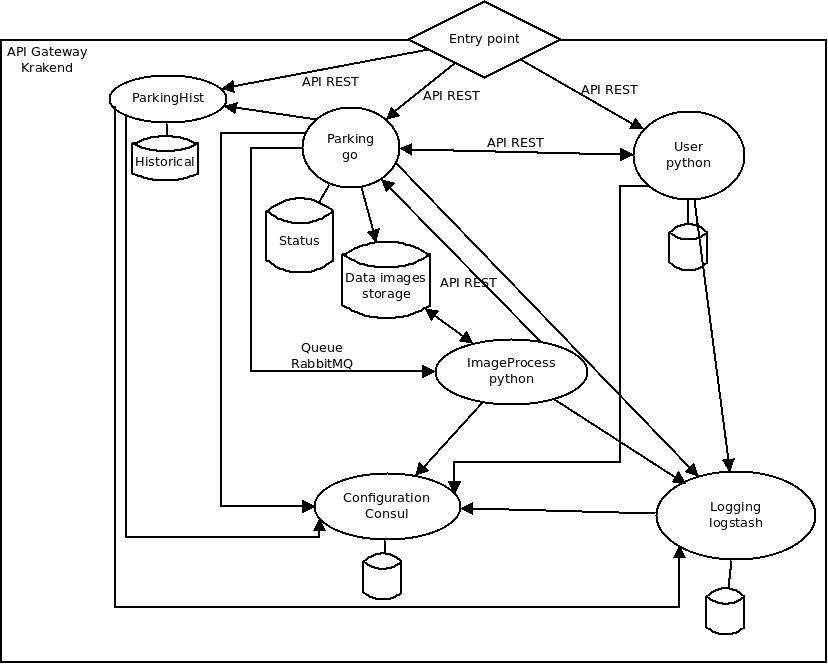
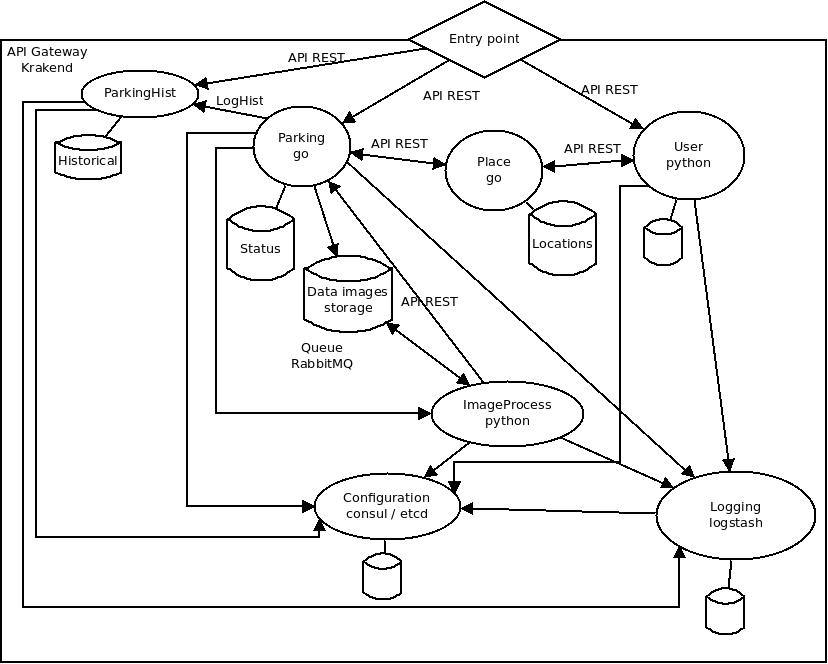
Documentation

diff --git a/README.md b/README.md
@@ -1,76 +1,62 @@
 [![Build Status](https://travis-ci.org/kcobos/CC-SIGA.svg?branch=master)](https://travis-ci.org/kcobos/CC-SIGA)
+[![CircleCI](https://circleci.com/gh/kcobos/CC-SIGA.svg?style=svg)](https://circleci.com/gh/kcobos/CC-SIGA)
 [![codecov](https://codecov.io/gh/kcobos/CC-SIGA/branch/master/graph/badge.svg)](https://codecov.io/gh/kcobos/CC-SIGA)
 [![GPL Licence](https://badges.frapsoft.com/os/gpl/gpl.png?v=103)](https://opensource.org/licenses/GPL-3.0/)
 
 # CC-SIGA
-This is a repository to design SIGA infrastructure on server side considering all parts involved in SIGA (sensors, APPS, storing, large tasks...).
+SIGA (Sistema Integral de Gestión de Aparcamientos (Integral Parking Management System)) is a system designed for reserved parkings in public area like authorities, ambulances or, its main aim, disabled parkings. It tries to "centralize" any kind of information about these parkings (location, parking type, occupation status (free, occupied, bad occupied...)) and show it as easy as possible to users.
 
-SIGA (Sistema Integral de Gestión de Aparcamientos (Integral Parking Management System)) is designed for reserved parkings in public area like authorities, ambulances or, its main aim, disabled parkings. It is based on the parking lot state data is received on the system automatically when the state changes by sensors disposed on parking lot.
+The information about occupation status about parking is provided by sensors disposed in parkings attached to this project. By this way, the system has actual states of all parkings.
 
-On the other hand, users of this type of parking have an mobile application to view and navigate to free parkings. Moreover, users can rate parking lots have been used and report if a parking lot is used without accreditation or if there is any kind of problem in any parking lot. Also, there is an application to manage parking lots, users and authorizations used by public administration and police who is informed if a parking lot is been used without authorization.
 
-## Infrastructure overview
-The infrastructure on the server side it is composed by several services to be ready to scale the system and include more functionalities if it's needed in a future. Besides, separating functionalities we get improve the security of the system.
+* [Infrastructure overview](./docs/index.md#infrastructure-overview)
+* [Specifying the infrastructure](./docs/index.md#specifying-the-infrastructure)
 
-The first approximation of the infrastructure consists of multiple services as we describe below:
- * API Gateway: as a cloud system, an API Gateway is needed to be able to change the cloud without changing applications which connect to this cloud.
- * Parking: manage all parking lots and them states. This service is called by users and sensors so it has to be as quick as possible responding all requests. When a parking is occupied this API receives the ID of the parking lot and the ID of the user, if any, and check if the user ID exists. To do that it is needed a relation between this microservice an user microservice. In addition, any change of parking lot status must be recorded in other database (ParkingHist). 
- * ParkingHist: it is the parking historical states. Every change of parking lot status must be recorded to be able to know parking lot occupancy or incidences for reporting or improve the system.
- * User: manage users and permissions. These users could be administrators or clients. Every connection to this cloud have to be authenticated. 
- * ImageProcess: if sensors get a parking lot occupied without an accreditation (user ID), they take a picture of the vehicle and this picture is been had to process to get information like a car identification. This process could be take a lot of time so data come through a queue and after the process ends, the system has to upgrade the parking status and the parking historical.
- * Configuration: this cloud system needs a configuration service to be able to make changes as quick as possible.
- * Logging: to improve all system and check possible problems of the system a logging system is needed. This service is connected to all services, as configuration, to store and process all logs.
 
-All services have to be in a same entry point. To do that, the system needs an API gateway which handles the outside requests without have to change URLs. Depend on demand and users or sensors number, we could divide this API gateway to two APIs, one for users and the other for sensors.
+## Test
+This project has been tested to ensure a function of it self. In this case, this project has ben tested completely in [Travis CI](https://travis-ci.org/kcobos/CC-SIGA) and only a test in [Circle CI](https://circleci.com/gh/kcobos/CC-SIGA) due to its free plans.
 
-To sum that, this first approximation could be like:
+Starting with [Circle CI](https://circleci.com/gh/kcobos/CC-SIGA), free plan has only 1 job so only we can test one language and one version of that. We have chosen GoLang language to test due to Circle CI doesn't have the last version of Python language (3.8). This test doesn't upload data to code coverage ([CodeCov](https://codecov.io/gh/kcobos/CC-SIGA)) so, the configuration is very simple:
 
-![Overview scheme](./docs/CC_overview.jpeg)
+``` yml
+version: 2
+jobs:
+  build:
+    docker: 
+      - image: circleci/golang:1.13
+    steps: 
+      - checkout 
+      - run: make goTest
+```
 
-## Specifying the infrastructure
-It is time to specify in more detail the different parts of the project. This specification deals with the choice of programming languages to be used in the different microservices, the type and engine of the databases to be used as well as the API Gateway to be used, the logging and configuration systems and the queue to be used.
+Due to this project is a open source project, in [Travis CI](https://travis-ci.org/kcobos/CC-SIGA) we don't have job restrictions and we can test all languages and versions. By default, [Travis](https://docs.travis-ci.com/user/build-matrix/) uses a matrix system to build jobs to test the code. Here, we have two languages for the time being so we couldn't use build matrix system without excluding and comparing each combination because configuration complexity.
 
-### API Gateway
-The API Gateway we could choose is NGINX API Gateway. NGINX is a powerful load balancer, web server and reverse proxy but, also, it has a specific solution aimed at microservices‑based applications and it has a lot of [documentation](https://www.nginx.com/blog/deploying-nginx-plus-as-an-api-gateway-part-1/) . However, this solution is not free neither open source.
+We decided to create job per job, [building stages manually](https://docs.travis-ci.com/user/build-stages/) to test all languages (Go an Python) and to test all versions we need. The configuration is:
 
-Looking for a free and open source solution [Krakend](https://www.krakend.io/) could be the best option for an API Gateway and also it has a lot of [documentation](https://www.krakend.io/docs/overview/introduction/).
+``` yml
+jobs:
+  include:
+    - stage: test
+      name: "Go 1.13 tests"
+      language: go
+      go:
+        - "1.13"
+      script:
+        - make goTest
+      after_success:
+        - make goCoverage
+        - bash <(curl -s https://codecov.io/bash) -cF go
+```
+create one stage per language and version. After test success, test coverage will upload to [CodeCov](https://codecov.io/gh/kcobos/CC-SIGA) explaining the language.
 
-### Configuration system
-A fundamental part of a microservices‑based application is configure all distributed microservices as easy as possible. Here we could face to a several configuration and service discovery tools. Due to this is a open project, we want all tools which compose the project open as well.
+In GoLang we have chosen almost all version, from 1.3 to 1.13 or lasted released, and in Python we have chosen only Python3, from 3.4 to 3.8-dev, because Python2 will retire on 2020 (in one day!!).
 
-To facilitate the decision of which configuration tool is the best for this project, is better to see a [comparative](https://stackshare.io/service-discovery) where [Consul](https://www.consul.io/) could be one of the best free and open source tool. Also it has a lot of [documentation](https://www.consul.io/docs/index.html) to read. Another could be [etcd](https://etcd.io/) installed by default in cloud OS.
 
-### Logging system
-Another fundamental part of a microservices‑based application is to log all microservices errors or information in only one site. This site could be centralized or distributed but developers wont have to see logs microservice per microservice.
+## Building tools
+To start, we have chosen a common build tool between the both languages (GoLang and Python) because we don't have any dependencies right now and only run tests and coverage. [Make](https://www.gnu.org/software/make/) is the chosen because is a free and open source tool installed in all distributions.
 
-As the before decision, here we could see a [comparative](https://stackshare.io/log-management) where [Logstash](https://www.elastic.co/products/logstash) could be one of the best tools to centralize all logs. Moreover, we a lot of [information](https://www.elastic.co/guide/en/logstash/current/index.html) about this tool.
+We want to separate every microservice and each one must to have each build tool. GoLang doesn't need an external tool but [Tusk](https://github.com/rliebz/tusk) could ease the job. Python need an external tool and it could be [DoIt](https://pydoit.org/) because it's also free and open source.
 
-### Microservices
-#### Parking
-This is a microservice which knows where are all parking lots and it states (free, busy or bad occupied). It has to response very quick to clients which can be users, administrators or sensor. For this reason and the concurrency of it functionality [Go Lang](https://golang.org/) could be one of the best option.
+In [Make](Makefile) we have created two rules for each microservice: one for testing and other for coverage except in `Users` that we have other to install dependencies but there isn't now. 
 
-On the database side, all data are going to be structured and it has to be a parking location. Due to that there are going to be geographic objects and, probably, there will be operation with these objects. For this reason, we think, [PostgreSQL](https://www.postgresql.org/) with his [PostGIS](https://postgis.net/) plugin could be the best free option.
-
-#### ParkingHist
-ParkingHist is like a log system which only saves parking lot state related data. Here we only save data when a parking lot state has changed. Maybe to do that we could chose a logging tool or made it from scratch but the solution has to be as quick as possible.
-
-About it database, all data is going to be structured so a relational DB will be the best option.
-
-#### User
-This microservice will process and store all user data like personal data or favorites, used parking lots. So this has to be a very secured and fast microservice so [Python](https://www.python.org/) and a API Rest in [Django](https://www.djangoproject.com/) could be the best option.
-
-About it database, Django [officially supports](https://docs.djangoproject.com/en/3.0/ref/databases/) PostgreSQL, MariaDB, MySQL, Oracle and SQLite. Oracle is ruled out because it is not free and SQLite too because is not for a cloud, it is for small applications or clients.
-
-About PostgreSQL, MariaDB or MySQL, MariaDB is a community-developed, commercially supported fork of the MySQL so between the other two, [in this comparative](https://db-engines.com/en/system/MariaDB%3bPostgreSQL), [MariaDB](https://mariadb.org/) could be better to do that than PostgreSQL.
-
-#### ImageProcess
-ImageProcess is a batch microservice to process images to find a vehicle identification, if any, in the picture taken when a parking lot is bad occupied. This is only called when sensors don't get any identification or get an identification which not in users and then they take a picture of the parking lot.
-
-This picture is sent to *Parking* microservice, it saves the picture in a data storage and send the picture name and a ID to a queue. ImageProcess receive these requests, process the image and reply if an identification has been found. This reply is direct and via API to *Parking* microservice.
-
-Python could be the best option to process the image due to it all [image processing libraries](https://www.datasciencecentral.com/profiles/blogs/9-python-libraries-which-can-help-you-in-image-processing). 
-
-##### Queue
-This queue is to send from *Parking* to *ImageProcess* microservices which image has going to be processed. So this queue has to be accesible from Go Lang and Python.
-
-[In this ranking](https://stackshare.io/message-queue) of message queue tools [RabittMQ](https://www.rabbitmq.com/) is good placed and it could be accessed from Go Lang and Python through [amqp](https://github.com/streadway/amqp) and [pika](https://github.com/pika/pika).
+To test all microservices of a language, there is another rule to make it easier. The same for coverage.

diff --git a/docs/index.md b/docs/index.md
@@ -1,13 +1,70 @@
-<!-- # CC-SIGA
-## Infrastructure and deployment for SIGA
+# SIGA Cloud
+SIGA (Sistema Integral de Gestión de Aparcamientos (Integral Parking Management System)) is a system designed for reserved parkings in public area like authorities, ambulances or, its main aim, disabled parkings. It tries to "centralize" any kind of information about these parkings (location, parking type, occupation status (free, occupied, bad occupied...)) and show it as easy as possible to users.
 
-This is a repository to design SIGA infrastructure on server side considering all parts involved in SIGA (sensors, APPS, storing, large tasks...).
+The information about occupation status about parking is provided by sensors disposed in parkings attached to this project. By this way, the system has actual states of all parkings.
 
-## Overview
-In a global form, we have to divide all functionalities to be able to get a distributed and scalable system. The new functionalities which could be needed in this system will be easier to include in the project or even it is possible to make them standalone by this way of designing systems in microservices.
 
-To begin with, the system will consist of a part that will serve as an interface for communication with the sensors. In this communication the server can receive images for its vehicle identification treatment. Because this treatment could take more time, a queue will be used to prevent the interface will stop listening to clients requests (sensors).
+## Infrastructure overview
+The infrastructure on the server side it is composed by several services to be ready to scale the system and include more functionalities if it's needed in a future. Besides, separating functionalities we get improve the security of the system.
 
-Continuing for client requests on the server side, the system needs two more interfaces, one for system administration and the other for final user. The first has to be more securized for obvious reasons and the second has to respond very quickly to final users requests.
+The first approximation of the infrastructure consists of multiple services as we describe below:
+ * API Gateway: as a cloud system, an API Gateway is needed to be able to change the cloud without changing applications which connect to this cloud.
+ * Parking: manage all parking lots and them states. This service is called by sensors so it has to be as quick as possible responding all requests. When a parking is occupied this API receives the ID of the parking lot and the UID of the user, if any, and check if the user UID exists. To do that it is needed a relation between this microservice an user microservice. In addition, any change of parking lot status must be recorded in other database (ParkingHist). 
+ * ParkingHist: it is the parking historical states. Every change of parking lot status must be recorded to be able to know parking lot occupancy or incidences for reporting or improve the system.
+ * Place: group parkings in a location geopositioned. This service is called by users.
+ * User: manage users and permissions. These users could be administrators or clients. Every connection to this cloud have to be authenticated. 
+ * ImageProcess: if sensors get a parking lot occupied without an accreditation (user ID), they take a picture of the vehicle and this picture is been had to process to get information like a car identification. This process could be take a lot of time so data come through a queue and after the process ends, the system has to upgrade the parking status and the parking historical.
+ * Configuration: this cloud system needs a configuration service to be able to make changes as quick as possible.
+ * Logging: to improve all system and check possible problems of the system a logging system is needed. This service is connected to all services, as configuration, to store and process all logs.
 
-The entire system needs a database or several databases to store data. You could divide data storage by layers to have precalculated data to respond faster to users. In addition, it is necessary to store all histories of system states and requests for security reasons and to improve it. -->
+All services have to be in a same entry point. To do that, the system needs an API gateway which handles the outside requests without have to change URLs. Depend on demand and users or sensors number, we could divide this API gateway to two APIs, one for users and the other for sensors.
+
+![Overview scheme](./CC_overview.jpeg)
+
+## Specifying the infrastructure
+It is time to specify in more detail the different parts of the project. This specification deals with the choice of programming languages to be used in the different microservices, the type and engine of the databases to be used as well as the API Gateway to be used, the logging and configuration systems and the queue to be used.
+
+### API Gateway
+The API Gateway we could choose is NGINX API Gateway. NGINX is a powerful load balancer, web server and reverse proxy but, also, it has a specific solution aimed at microservices‑based applications and it has a lot of [documentation](https://www.nginx.com/blog/deploying-nginx-plus-as-an-api-gateway-part-1/) . However, this solution is not free neither open source.
+
+Looking for a free and open source solution [Krakend](https://www.krakend.io/) could be the best option for an API Gateway and also it has a lot of [documentation](https://www.krakend.io/docs/overview/introduction/).
+
+### Configuration system
+A fundamental part of a microservices‑based application is configure all distributed microservices as easy as possible. Here we could face to a several configuration and service discovery tools. Due to this is a open project, we want all tools which compose the project open as well.
+
+To facilitate the decision of which configuration tool is the best for this project, is better to see a [comparative](https://stackshare.io/service-discovery) where [Consul](https://www.consul.io/) could be one of the best free and open source tool. Also it has a lot of [documentation](https://www.consul.io/docs/index.html) to read. Another could be [etcd](https://etcd.io/) installed by default in cloud OS.
+
+### Logging system
+Another fundamental part of a microservices‑based application is to log all microservices errors or information in only one site. This site could be centralized or distributed but developers wont have to see logs microservice per microservice.
+
+As the before decision, here we could see a [comparative](https://stackshare.io/log-management) where [Logstash](https://www.elastic.co/products/logstash) could be one of the best tools to centralize all logs. Moreover, we a lot of [information](https://www.elastic.co/guide/en/logstash/current/index.html) about this tool.
+
+### Microservices
+#### Parking
+This is a microservice which knows where are all parking lots and it states (free, busy or bad occupied). It has to response very quick to clients which can be users, administrators or sensor. For this reason and the concurrency of it functionality [Go Lang](https://golang.org/) could be one of the best option.
+
+On the database side, all data are going to be structured and it has to be a parking location. Due to that there are going to be geographic objects and, probably, there will be operation with these objects. For this reason, we think, [PostgreSQL](https://www.postgresql.org/) with his [PostGIS](https://postgis.net/) plugin could be the best free option.
+
+#### ParkingHist
+ParkingHist is like a log system which only saves parking lot state related data. Here we only save data when a parking lot state has changed. Maybe to do that we could chose a logging tool or made it from scratch but the solution has to be as quick as possible.
+
+About it database, all data is going to be structured so a relational DB will be the best option.
+
+#### User
+This microservice will process and store all user data like personal data or favorites, used parking lots. So this has to be a very secured and fast microservice so [Python](https://www.python.org/) and a API Rest in [Django](https://www.djangoproject.com/) could be the best option.
+
+About it database, Django [officially supports](https://docs.djangoproject.com/en/3.0/ref/databases/) PostgreSQL, MariaDB, MySQL, Oracle and SQLite. Oracle is ruled out because it is not free and SQLite too because is not for a cloud, it is for small applications or clients.
+
+About PostgreSQL, MariaDB or MySQL, MariaDB is a community-developed, commercially supported fork of the MySQL so between the other two, [in this comparative](https://db-engines.com/en/system/MariaDB%3bPostgreSQL), [MariaDB](https://mariadb.org/) could be better to do that than PostgreSQL.
+
+#### ImageProcess
+ImageProcess is a batch microservice to process images to find a vehicle identification, if any, in the picture taken when a parking lot is bad occupied. This is only called when sensors don't get any identification or get an identification which not in users and then they take a picture of the parking lot.
+
+This picture is sent to *Parking* microservice, it saves the picture in a data storage and send the picture name and a ID to a queue. ImageProcess receive these requests, process the image and reply if an identification has been found. This reply is direct and via API to *Parking* microservice.
+
+Python could be the best option to process the image due to it all [image processing libraries](https://www.datasciencecentral.com/profiles/blogs/9-python-libraries-which-can-help-you-in-image-processing). 
+
+##### Queue
+This queue is to send from *Parking* to *ImageProcess* microservices which image has going to be processed. So this queue has to be accesible from Go Lang and Python.
+
+[In this ranking](https://stackshare.io/message-queue) of message queue tools [RabittMQ](https://www.rabbitmq.com/) is good placed and it could be accessed from Go Lang and Python through [amqp](https://github.com/streadway/amqp) and [pika](https://github.com/pika/pika).
